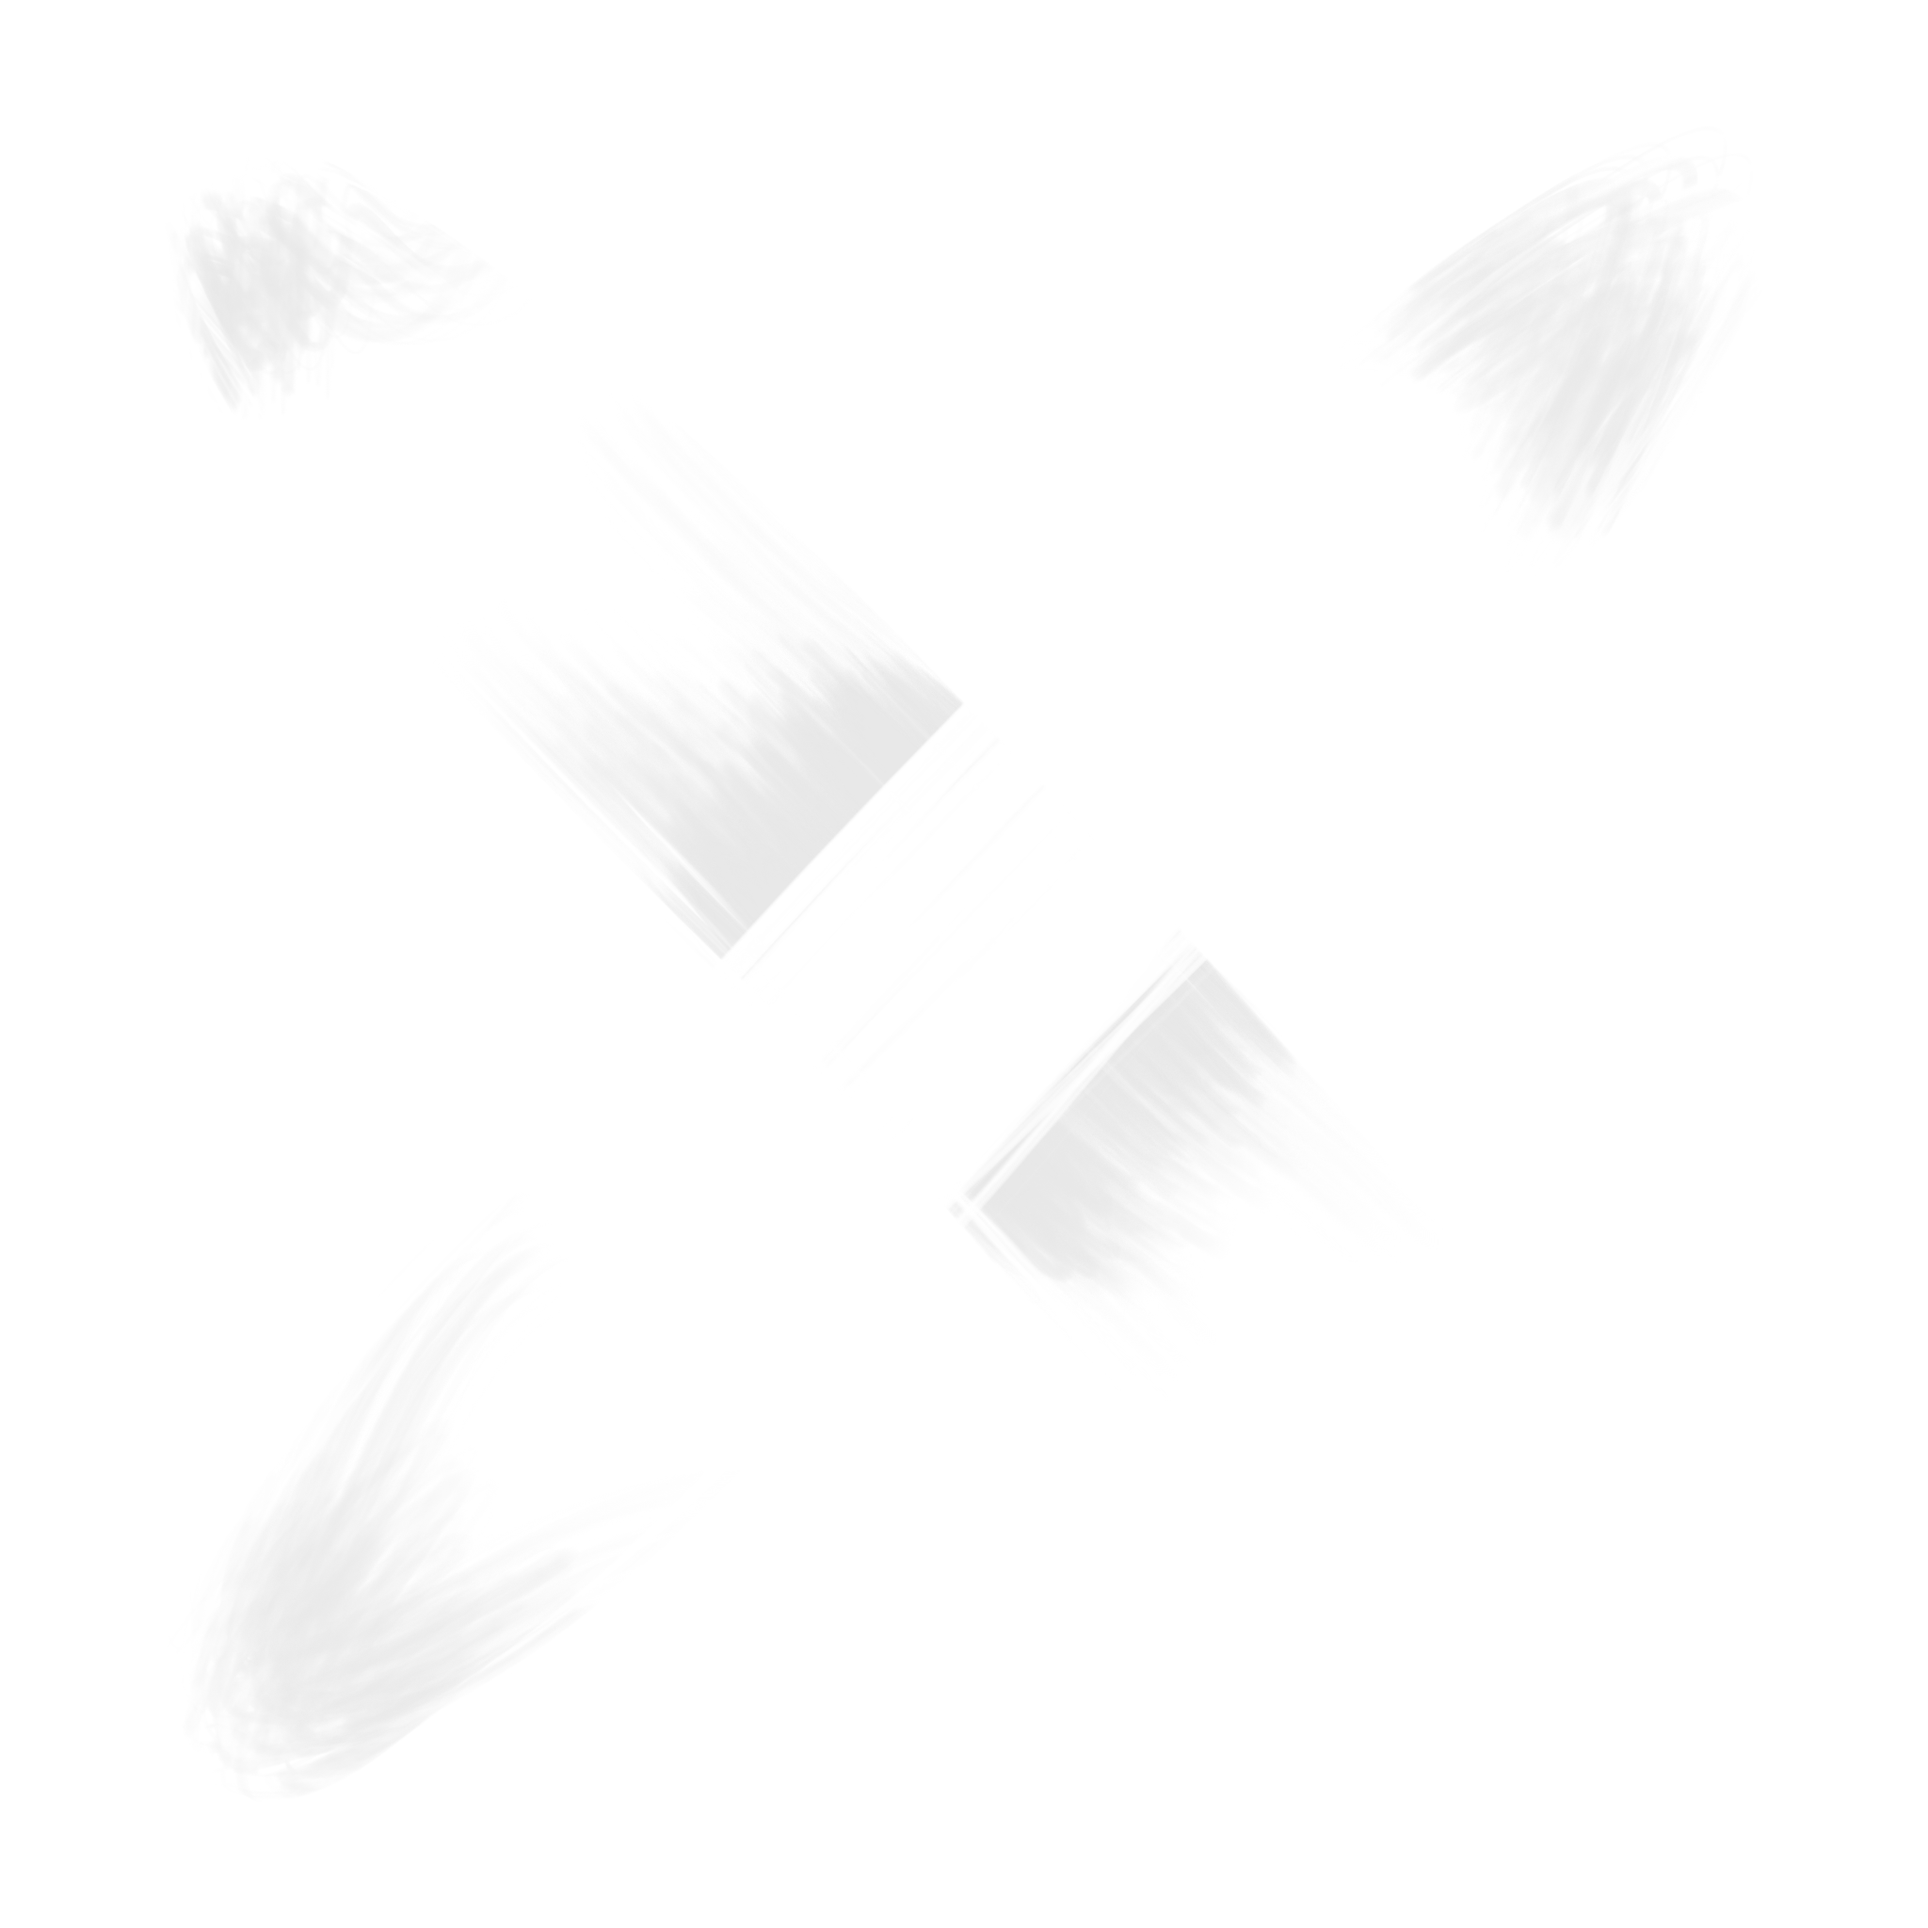
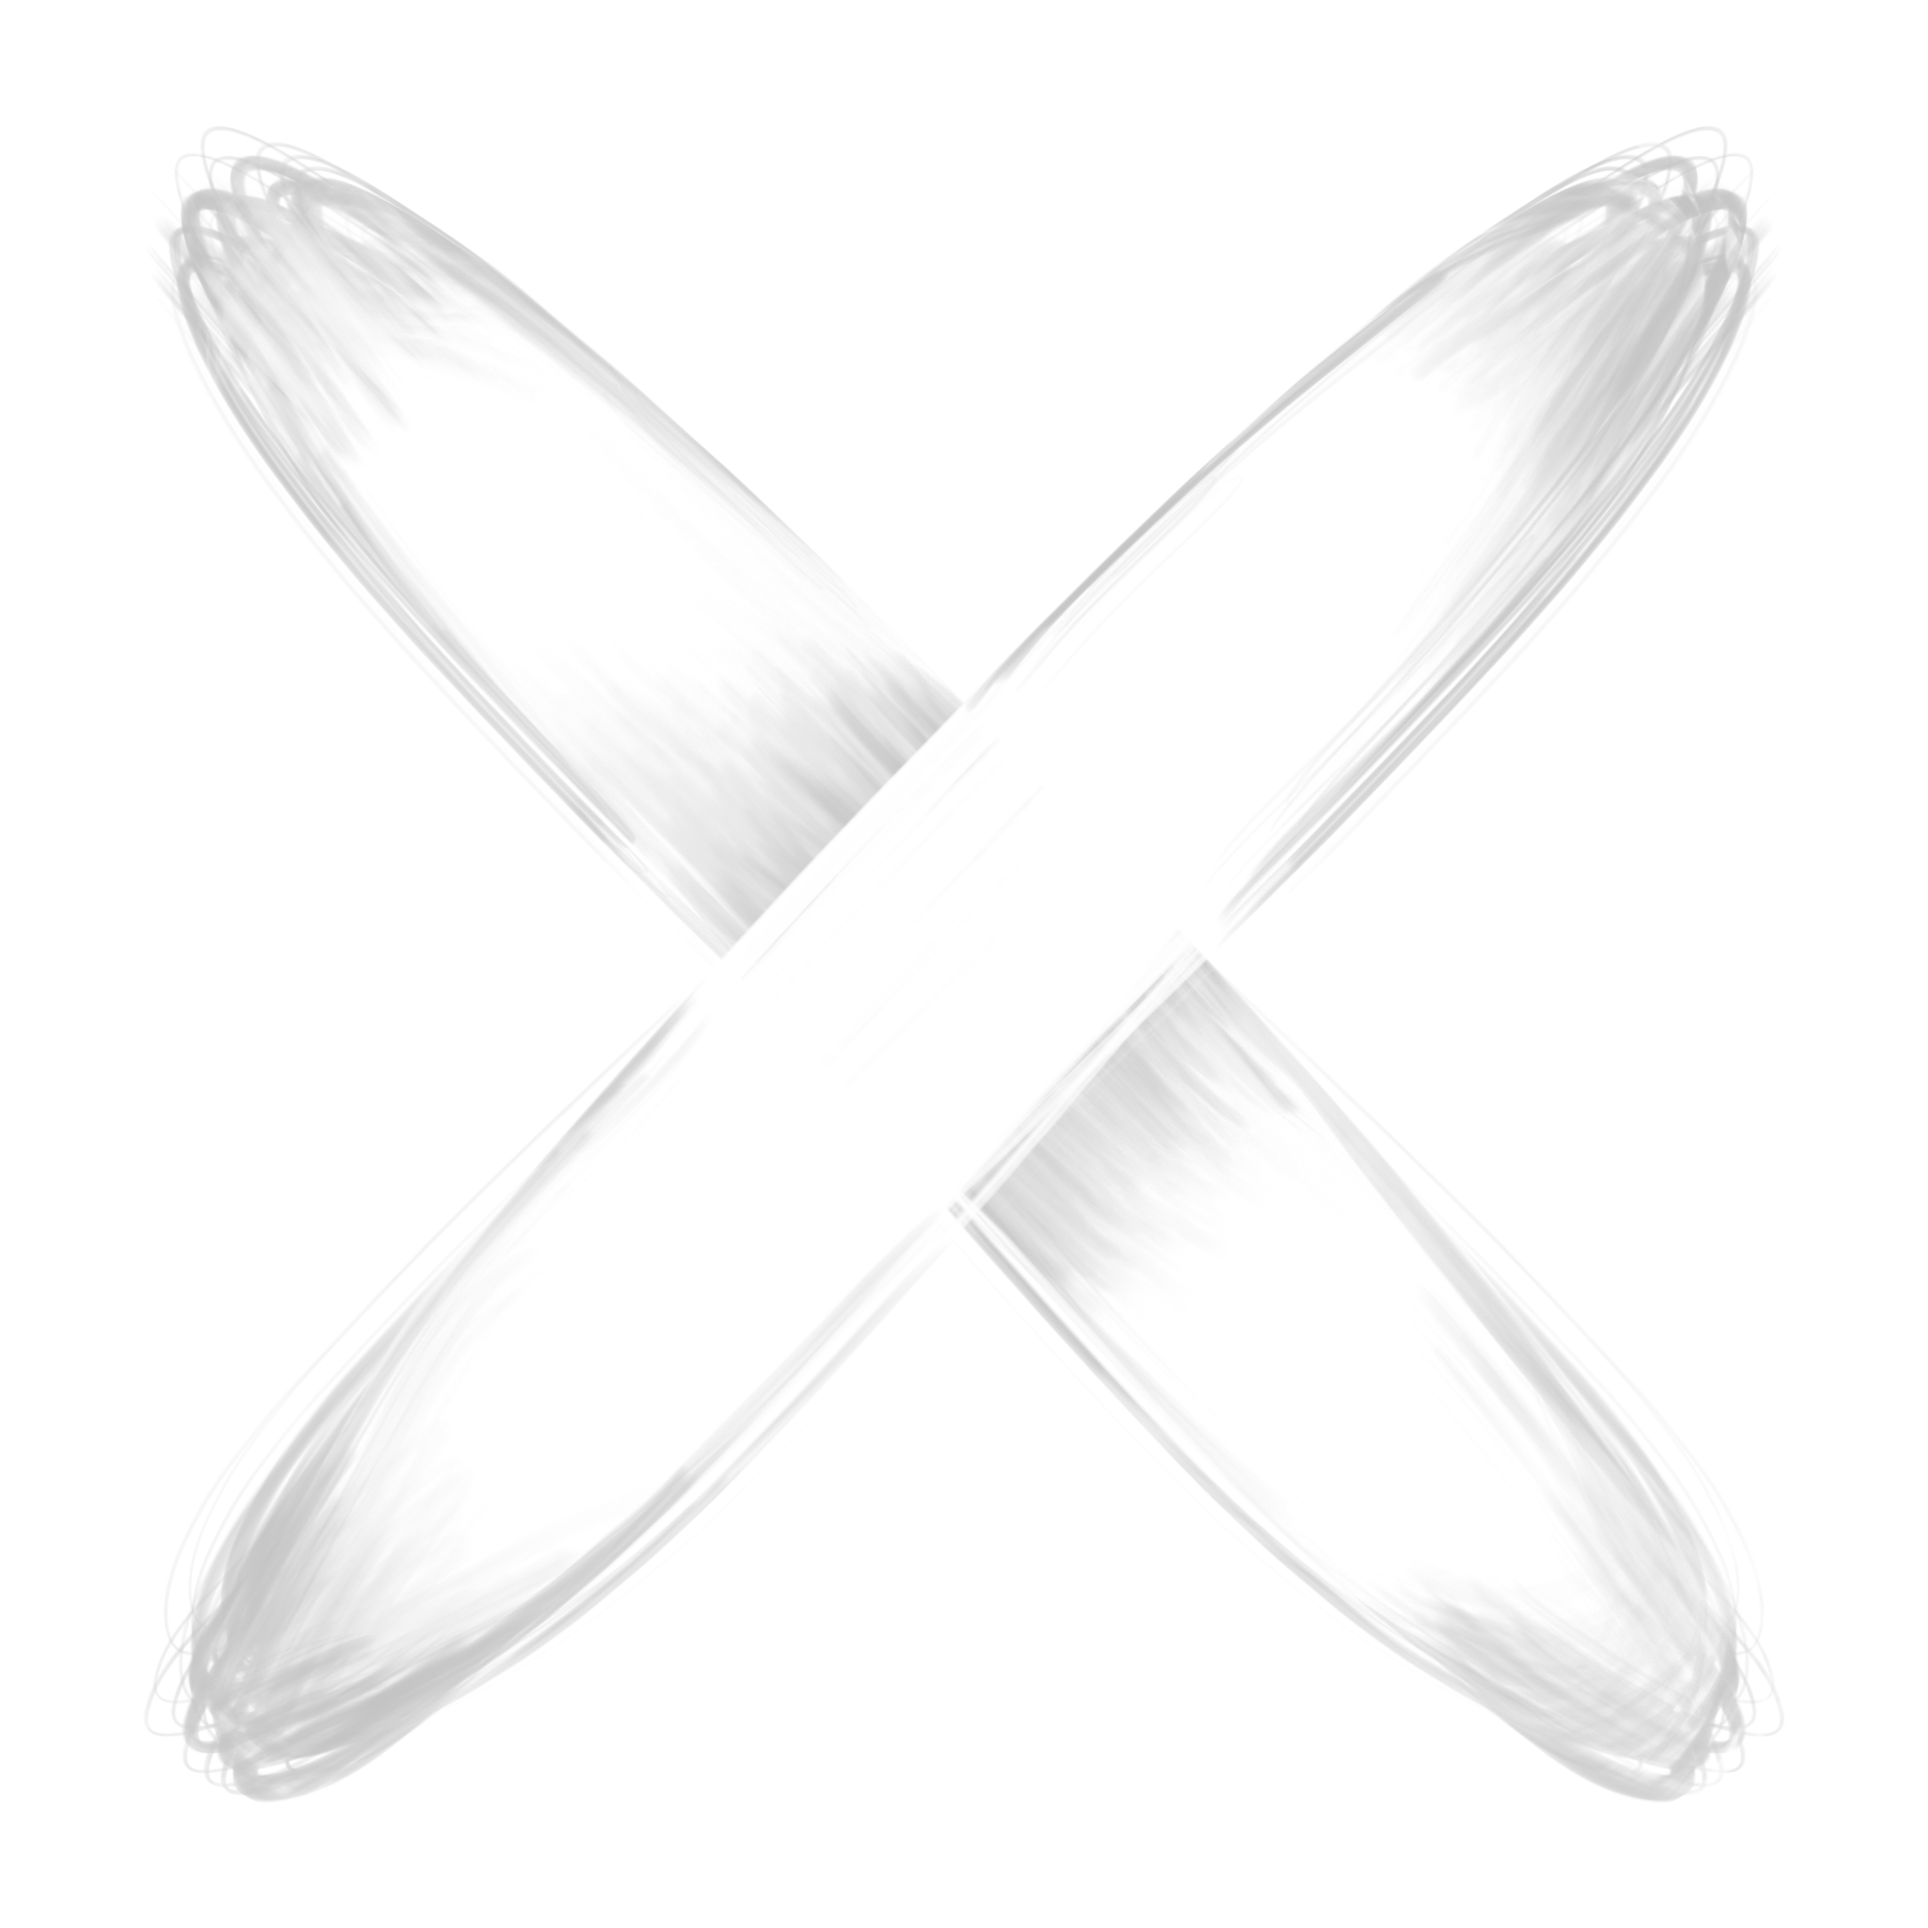
update print pdf

diff --git a/src/components/PrintView.vue b/src/components/PrintView.vue
@@ -1,24 +1,41 @@
 <script setup lang="ts">
 import { computed } from 'vue'
 import type { PatternProject } from '../types/pattern'
-import { findUsedColors, renderGrid } from '../utils/grid'
+import { renderGrid } from '../utils/grid'
 
 const props = defineProps<{ project: PatternProject }>()
 const renderedPattern = computed(() => renderGrid(props.project.cells, props.project.horizontalRepeats, props.project.verticalRepeats, props.project.repeatBoxes))
 const pattern = computed(() => renderedPattern.value.cells)
 const columns = computed(() => pattern.value[0].length)
 const rows = computed(() => pattern.value.length)
-const usedColors = computed(() => findUsedColors(pattern.value))
-const previewCellSize = computed(() => Math.max(0.4, Math.min(6, 245 / columns.value, 135 / rows.value)))
 const chartCellSize = computed(() => Math.max(0.35, Math.min(5, 238 / columns.value, 160 / rows.value)))
-const previewStyle = computed(() => ({
-  gridTemplateColumns: `repeat(${columns.value}, ${previewCellSize.value}mm)`,
-  gridAutoRows: `${previewCellSize.value}mm`,
-}))
 const chartStyle = computed(() => ({
   gridTemplateColumns: `repeat(${columns.value + 1}, ${chartCellSize.value}mm)`,
   gridTemplateRows: `repeat(${rows.value + 1}, ${chartCellSize.value}mm)`,
 }))
+const repeatCharts = computed(() => props.project.repeatBoxes
+  .filter((box) => box.enabled)
+  .map((box, index) => {
+    const top = box.top
+    const left = box.left
+    const bottom = box.direction === 'down' ? top + (box.bottom - top) / box.sections : box.bottom
+    const right = box.direction === 'across' ? left + (box.right - left) / box.sections : box.right
+    const repeatRows = bottom - top
+    const repeatColumns = right - left
+    const cellSize = Math.max(0.35, Math.min(8, 238 / (repeatColumns + 1), 160 / (repeatRows + 1)))
+    return {
+      id: box.id,
+      title: `Repeat ${index + 1} source section`,
+      description: `Rows ${top + 1}-${bottom}, columns ${left + 1}-${right} · ${box.direction === 'across' ? 'Across' : 'Down'}`,
+      cells: renderedPattern.value.cells.slice(top, bottom).map((row) => row.slice(left, right)),
+      rowHeaders: Array.from({ length: repeatRows }, (_, row) => top + row),
+      columnHeaders: Array.from({ length: repeatColumns }, (_, column) => left + column),
+      style: {
+        gridTemplateColumns: `repeat(${repeatColumns + 1}, ${cellSize}mm)`,
+        gridTemplateRows: `repeat(${repeatRows + 1}, ${cellSize}mm)`,
+      },
+    }
+  }))
 </script>
 
 <template>
@@ -28,26 +45,8 @@ const chartStyle = computed(() => ({
       <p>{{ columns }} columns by {{ rows }} rows</p>
     </header>
 
-    <section class="print-preview-page">
-      <h2>Pattern preview</h2>
-      <div class="print-preview-grid" :style="previewStyle" aria-label="Pattern color preview">
-        <template v-for="(row, rowIndex) in pattern" :key="rowIndex">
-          <span v-for="(color, columnIndex) in row" :key="columnIndex" class="print-preview-cell" :style="{ backgroundColor: color }"></span>
-        </template>
-      </div>
-
-      <div class="print-colors">
-        <h2>Used colors</h2>
-        <ul>
-          <li v-for="color in usedColors" :key="color">
-            <span class="print-swatch" :style="{ backgroundColor: color }"></span>{{ color }}
-          </li>
-        </ul>
-      </div>
-    </section>
-
     <section class="print-chart-page">
-      <h2>Stitch chart</h2>
+      <h2>Full stitch chart</h2>
       <div class="print-chart" :style="chartStyle" aria-label="Numbered stitch chart">
         <span class="print-chart-corner"></span>
         <span
@@ -68,6 +67,36 @@ const chartStyle = computed(() => ({
             :class="{
               'print-section-column-end': (renderedPattern.columnHeaders[columnIndex] + 1) % 5 === 0 && columnIndex < columns - 1,
               'print-section-row-end': (renderedPattern.rowHeaders[rowIndex] + 1) % 5 === 0 && rowIndex < rows - 1,
+            }"
+            :style="{ backgroundColor: color }"
+          ></span>
+        </template>
+      </div>
+    </section>
+
+    <section v-for="repeat in repeatCharts" :key="repeat.id" class="print-repeat-page">
+      <h2>{{ repeat.title }}</h2>
+      <p>{{ repeat.description }}</p>
+      <div class="print-chart" :style="repeat.style" :aria-label="repeat.title">
+        <span class="print-chart-corner"></span>
+        <span
+          v-for="(column, columnIndex) in repeat.columnHeaders"
+          :key="`repeat-column-${column}`"
+          class="print-column-number"
+          :class="{ 'print-section-column-end': (column + 1) % 5 === 0 && columnIndex < repeat.columnHeaders.length - 1 }"
+        >{{ column + 1 }}</span>
+        <template v-for="(row, rowIndex) in repeat.cells" :key="rowIndex">
+          <span
+            class="print-row-number"
+            :class="{ 'print-section-row-end': (repeat.rowHeaders[rowIndex] + 1) % 5 === 0 && rowIndex < repeat.rowHeaders.length - 1 }"
+          >{{ repeat.rowHeaders[rowIndex] + 1 }}</span>
+          <span
+            v-for="(color, columnIndex) in row"
+            :key="columnIndex"
+            class="print-chart-cell"
+            :class="{
+              'print-section-column-end': (repeat.columnHeaders[columnIndex] + 1) % 5 === 0 && columnIndex < repeat.columnHeaders.length - 1,
+              'print-section-row-end': (repeat.rowHeaders[rowIndex] + 1) % 5 === 0 && rowIndex < repeat.rowHeaders.length - 1,
             }"
             :style="{ backgroundColor: color }"
           ></span>

diff --git a/src/style.css b/src/style.css
@@ -115,9 +115,7 @@ body {
   body,
   #app,
   .print-only,
-  .print-preview-cell,
-  .print-chart-cell,
-  .print-swatch {
+  .print-chart-cell {
     -webkit-print-color-adjust: exact !important;
     print-color-adjust: exact !important;
   }
@@ -146,20 +144,27 @@ body {
     margin: 1mm 0 5mm;
   }
 
-  .print-preview-page,
-  .print-chart-page {
+  .print-chart-page,
+  .print-repeat-page {
     break-inside: avoid;
   }
 
-  .print-preview-page h2,
   .print-chart-page h2,
-  .print-colors h2 {
+  .print-repeat-page h2 {
     font-size: 14pt;
     font-weight: 700;
     margin: 0 0 3mm;
   }
 
-  .print-preview-grid,
+  .print-repeat-page {
+    break-before: page;
+  }
+
+  .print-repeat-page p {
+    font-size: 9pt;
+    margin: -1mm 0 3mm;
+  }
+
   .print-chart {
     display: grid;
     width: max-content;
@@ -171,45 +176,8 @@ body {
     border-top: 0.18mm solid #e5e7eb;
   }
 
-  .print-preview-grid {
-    border: 0.3mm solid #777;
-  }
-
-  .print-preview-cell,
-  .print-chart-cell,
-  .print-swatch {
+  .print-chart-cell {
     forced-color-adjust: none;
-  }
-
-  .print-colors {
-    margin-top: 6mm;
-  }
-
-  .print-colors ul {
-    display: flex;
-    flex-wrap: wrap;
-    gap: 3mm 6mm;
-    list-style: none;
-    margin: 0;
-    padding: 0;
-  }
-
-  .print-colors li {
-    align-items: center;
-    display: flex;
-    font-size: 9pt;
-    gap: 2mm;
-  }
-
-  .print-swatch {
-    border: 0.3mm solid black;
-    display: inline-block;
-    height: 5mm;
-    width: 5mm;
-  }
-
-  .print-chart-page {
-    break-before: page;
   }
 
   .print-chart-cell {

diff --git a/src/components/UserGuideModal.vue b/src/components/UserGuideModal.vue
@@ -170,7 +170,7 @@ onBeforeUnmount(() => window.removeEventListener('keydown', handleEscape))
             <h2 class="text-xl font-bold">Preview, printing, and PDF</h2>
           </div>
           <div class="rounded-box border border-base-300 p-4">
-            <p class="text-sm text-base-content/70">Complete pattern preview shows the fully rendered chart without grid lines, including whole-pattern repeats or active repeat boxes. Print or Save as PDF opens the browser print dialog and produces a full-color preview page, a used-color list, and a separate numbered stitch chart.</p>
+            <p class="text-sm text-base-content/70">Complete pattern preview shows the fully rendered chart without grid lines, including whole-pattern repeats or active repeat boxes. Print or Save as PDF produces the complete numbered canvas plus a separate source-section chart for each enabled repeat box.</p>
             <p class="mt-3 text-sm text-base-content/70">The light/dark theme button changes the editor only; printed output always uses a white page with exact pattern colors.</p>
           </div>
         </section>
